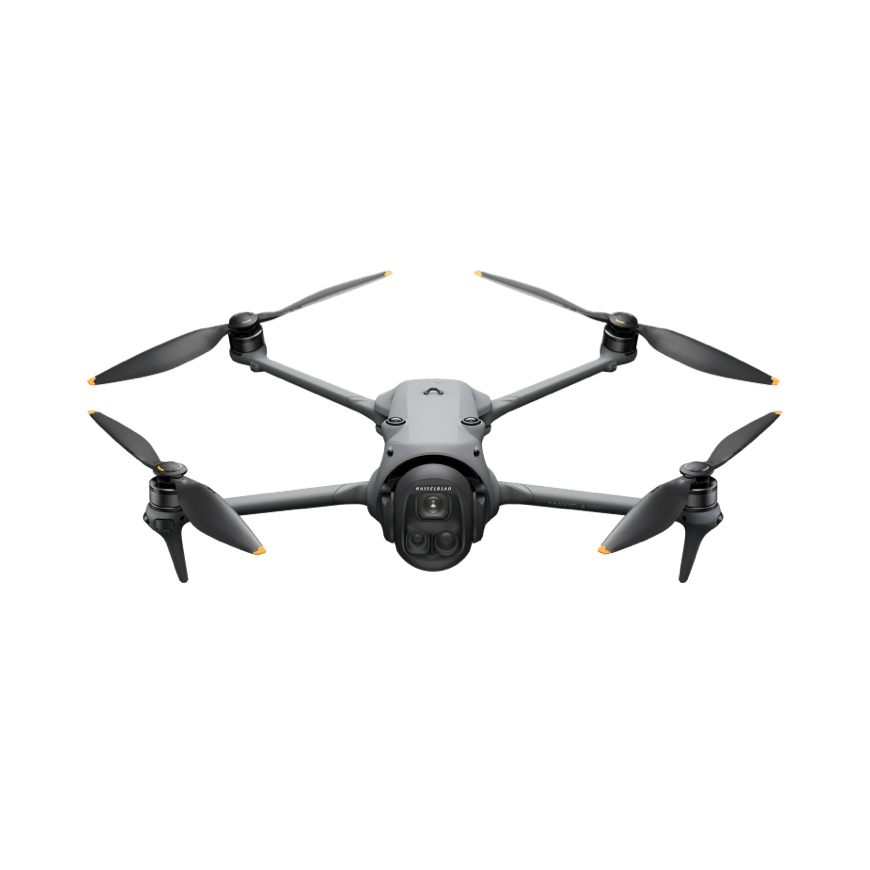
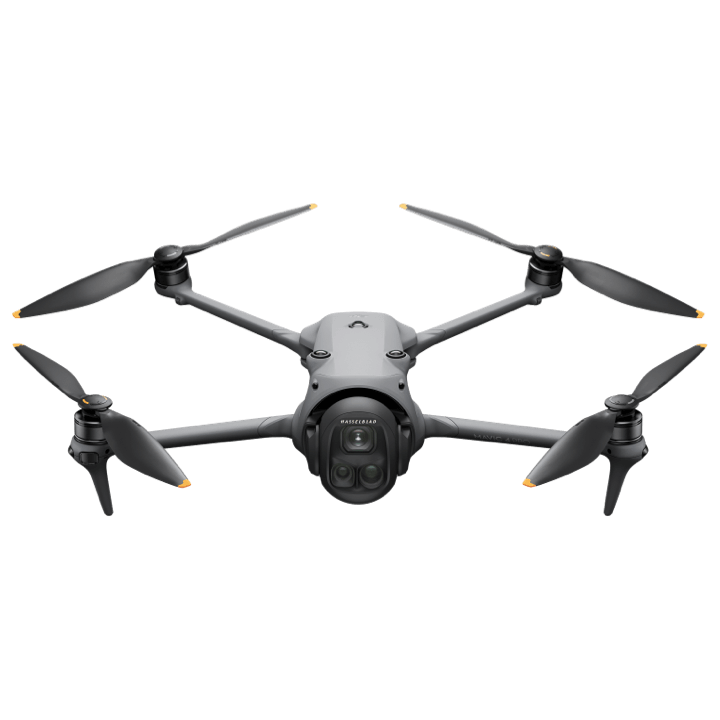
fix(P4): drone mais visível — recorta margem transparente + ícone maior + chip claro
A imagem do drone é cinza-escuro em fundo transparente e sumia no fundo escuro
dos menus/cards, além de ter muita margem vazia (drone ocupava só a faixa
central). Recortada a margem transparente (870→720, drone preenche o quadro) e
os ícones ganham fundo branco arredondado + tamanho maior (secnav 24px, topnav
22px, card hub-p4 34px) pra contrastar.

Claude-Session: https://claude.ai/code/session_01657o6boesTFtS8Sjoq8oss

Changed region(s): [[0.0, 0.275, 0.9778, 0.7333]]

diff --git a/src/hub-p4.html b/src/hub-p4.html
@@ -134,7 +134,7 @@
       <div class="md">Inventário CPELOG — abre em nova aba (inventario.cpelog.com.br).</div>
     </a>
     <a class="mcard" href="https://pilotodrone.bpmmamb.com.br/" target="_blank" rel="noopener noreferrer">
-      <div class="mic"><img src="assets/drone.png" alt="" style="height:28px;width:auto;object-fit:contain;vertical-align:middle" onerror="this.replaceWith(document.createTextNode('🛸'))"></div><div class="mt">Pilotos de Drone ↗</div>
+      <div class="mic"><img src="assets/drone.png" alt="" style="height:34px;width:34px;object-fit:contain;vertical-align:middle;background:#fff;border-radius:7px;padding:3px;box-sizing:border-box" onerror="this.replaceWith(document.createTextNode('🛸'))"></div><div class="mt">Pilotos de Drone ↗</div>
       <div class="md">Sistema de Gerenciamento de Pilotos de Drones Credenciados no COMAVE — abre em nova aba.</div>
     </a>
     <a class="mcard" href="https://p4.bpmmamb.com.br" target="_blank" rel="noopener noreferrer">

diff --git a/src/topnav.js b/src/topnav.js
@@ -135,7 +135,7 @@
 
     // Ícone pode ser um EMOJI ou um CAMINHO DE IMAGEM (ex.: assets/drone.png).
     const icoHTML = ic => /\.(png|jpe?g|svg|webp|gif)(\?|#|$)/i.test(ic||'')
-      ? `<img src="${ic}" alt="" style="width:16px;height:16px;object-fit:contain;vertical-align:middle">`
+      ? `<img src="${ic}" alt="" style="width:22px;height:22px;object-fit:contain;vertical-align:middle;background:#fff;border-radius:5px;padding:2px;box-sizing:border-box">`
       : (ic || '');
     // Aba com menu suspenso (mega): clicar no nome vai ao hub; passar o mouse
     // mostra os módulos daquela seção pra ir direto, de qualquer página.

diff --git a/src/secnav.js b/src/secnav.js
@@ -60,7 +60,7 @@
 
   // Ícone pode ser um EMOJI ou um CAMINHO DE IMAGEM (ex.: assets/drone.png).
   const icoHTML = ic => /\.(png|jpe?g|svg|webp|gif)(\?|#|$)/i.test(ic||'')
-    ? `<img src="${ic}" alt="" style="width:18px;height:18px;object-fit:contain;display:inline-block;vertical-align:middle">`
+    ? `<img src="${ic}" alt="" style="width:24px;height:24px;object-fit:contain;display:inline-block;vertical-align:middle;background:#fff;border-radius:5px;padding:2px;box-sizing:border-box">`
     : (ic || '');
   function montar(){
   const itensHTML = conf.itens
